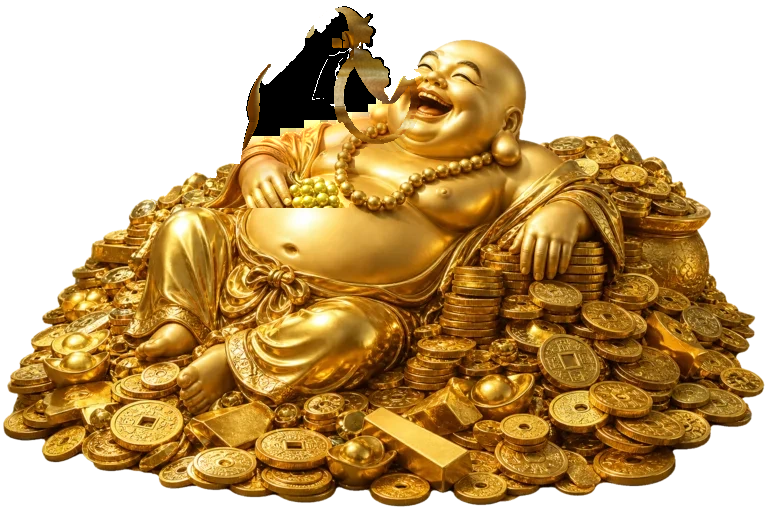
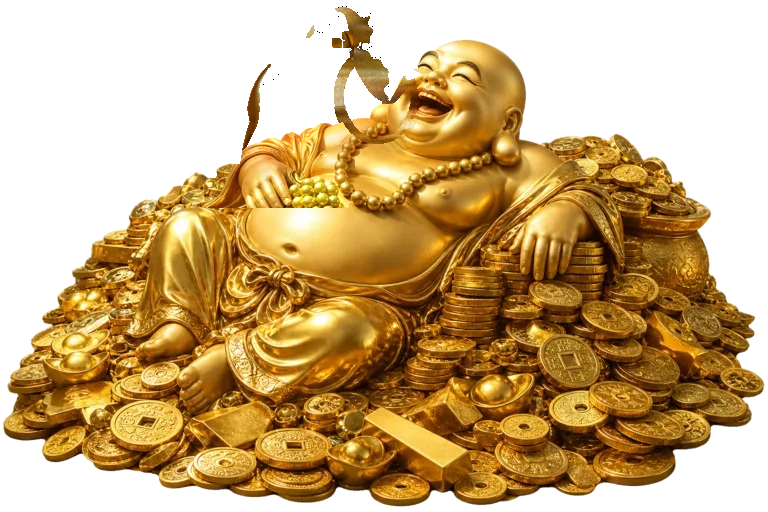
Re-apply the authorized checker-fringe fix: zero the black sky placeholders
The fringe was the torso backdrop's premultiplied-black placeholders: where
the lowered artwork has sky only, fill_rgb = R_rgb * ratio rendered opaque
black (R_rgb is (0,0,0) at alpha 0). The solid limb hid all 7,945 such px at
REST; each pose sweep uncovered a band that read as a dark mosaic beside the
pale delivery paint.

Zero-out on the owning layer (torso), covered subset only (7,808 px under
the solid limb or the opaque bunch at REST); 137 residue px under the limb's
soft edge kept and documented. No painting, no new detector; existing masks
and committed layer alphas only.

Proof: recomposed REST bit-identical to the accepted composite (0 differing
px, premultiplied delta 0.0); build REST proof unchanged (0 px>32, 0 px>8,
max 4, raw unsanctioned 0); pose voids 0 x7; arm/grapes byte-unchanged.
Visible black-in-sky px per pose: 812->12 (+6), 189->8 (-3), 453->9 (-7),
1134->13 (-15). D3 untouched. Evidence: acceptance/93-fringe-reapply.png.

Changed region(s): [[0.3125, 0.0312, 0.5, 0.2812]]

diff --git a/RECONSTRUCTION/build.py b/RECONSTRUCTION/build.py
@@ -305,6 +305,24 @@ if _part.any():
 RIM_UNMIXED = _part
 SANCTION = POCKET_SKY | CREVICE | (RIM_UNMIXED & (A_b < 0.98))
 
+# ── THE POCKET FRINGE (post-acceptance re-apply, authorized 2026-10-02) ─────
+# Every opaque-backdrop px where the LOWERED artwork has only sky draws the
+# lowered webp's premultiplied-black placeholder (R_rgb is (0,0,0) at alpha
+# 0, so fill_rgb is black at full torso opacity). The solid limb hides all
+# of them at REST; each pose sweep (+6/-3/-7/-15) uncovers a band and the
+# black dots, next to the pale delivery paint, read as a checker mosaic at
+# the pocket. The zero-out: where the REST composite covers such a px (the
+# solid limb, or the opaque bunch after the CREVICE repair), its premulti-
+# plied contribution is 0 before and after, so REST is untouched - and sky
+# is page: the card shows, the same ruling as POCKET_SKY. Residue px under
+# the limb's own semi-edge (arm alpha in [0.98, 0.999)) keep their drawn
+# colour; they are documented, single-digit scattered, and bit-irrelevant.
+_FRNGE = (M & SOLID) & ~HOLES & (A_r <= 0.5)
+_FRNGE_COVERED = _FRNGE & ((arm_a >= 0.999) | (grapes_a >= 0.999))
+_FRNGE_LEFT = _FRNGE & ~_FRNGE_COVERED
+torso_a = np.where(_FRNGE_COVERED, 0.0, torso_a)
+print(f"          pocket-fringe zero-out: class {int(_FRNGE.sum())}, zeroed {int(_FRNGE_COVERED.sum())}, residue kept {int(_FRNGE_LEFT.sum())}")
+
 grapes = merge(grapes_rgb, grapes_a)
 arm = merge(arm_rgb, arm_a)
 torso = merge(torso_rgb, torso_a)

diff --git a/RECONSTRUCTION/ACCEPTANCE.md b/RECONSTRUCTION/ACCEPTANCE.md
@@ -30,3 +30,27 @@ fix** (near-sky page px at the pocket edge, exposed only by the limb's sweep;
 removal provably REST-neutral because every affected pixel sits under the
 solid limb at rest). Applied after this record; the accepted REST appearance
 is unchanged — verified bit-level.
+
+## Re-apply executed (2026-10-02)
+
+Evidence, rules, and result of the authorized re-apply:
+
+- **Class located:** 7,945 px drawn by the torso's static backdrop where the
+  lowered artwork is sky only (`M & SOLID & ~HOLES & A_r <= 0.5`). The lowered
+  webp stores premultiplied black at alpha 0, so the light-matched backdrop
+  fill rendered these as **opaque black placeholders** — hidden by the solid
+  limb at REST, swept into view at every pose, and read as a dark mosaic
+  against the pale delivery paint (the "checker fringe").
+- **Edit:** zeroed `torso_a` on the covered subset only — 7,808 px hidden by
+  the solid limb (alpha >= 0.999) or the opaque bunch (post-CREVICE) at REST.
+  137 residue px under the limb's own soft edge kept (premultiplied-black
+  contributes 0 there; documented in build.py). No painting, no new detector;
+  existing masks and committed layer alphas only.
+- **REST proof:** recomposed REST is **bit-identical** to the accepted
+  composite (straight RGBA: 0 differing px; premultiplied delta 0.0).
+  Build proof unchanged: px>32 = 0, px>8 = 0, max 4; raw unsanctioned 0;
+  pose voids 0 across all seven renders. Arm/grapes layers byte-unchanged.
+- **Result:** visible black-in-sky px per pose 812→12 (+6), 189→8 (−3),
+  453→9 (−7), 1134→13 (−15); residue is scattered single px under the limb's
+  soft edge. D3 untouched. Evidence: `acceptance/93-fringe-reapply.png`
+  (before/after 4× + both mosaic zones at 8×), regenerated pose sheets.
